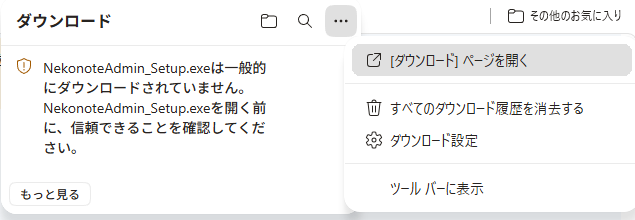
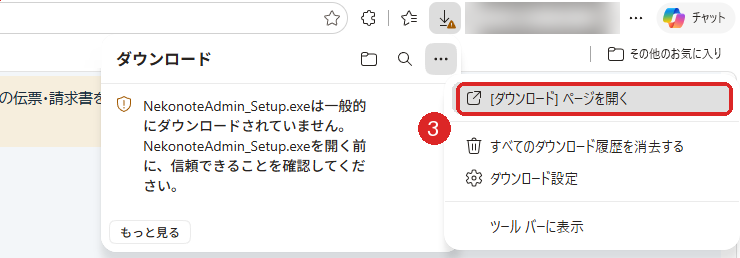
ダウンロードの警告の写真に、押すところの印を付けた

diff --git a/index.html b/index.html
@@ -92,10 +92,10 @@
           <summary>「一般的にダウンロードされていません」と出たとき（写真つき）</summary>
           <p>使う人がまだ少ないアプリなので、Edge が念のため出しています。こわれたファイルやウイルスではありません。</p>
           <ol>
-            <li>Edge の右上のダウンロードのマーク（↓）を押すと、この窓が出ます。「ダウンロード」の右の <b>…</b>（その他のオプション）を押します。<br><img src="img/dl1.png" alt="ダウンロードの窓。右上に「…」のボタン" width="465" height="220"></li>
-            <li><b>[ダウンロード] ページを開く</b> を押します。<br><img src="img/dl2.png" alt="「…」のメニュー。いちばん上に「[ダウンロード] ページを開く」" width="635" height="220"></li>
-            <li>開いたページの「すべてのファイル」に出ている項目の <b>保存</b> を押します。保存できたら「ファイルを開く」を押します。<br><img src="img/dl3.png" alt="ダウンロード ページ。警告の項目に「保存」と「削除」のボタン" width="885" height="235"></li>
-            <li>青い画面で「Windows によって PC が保護されました」と出たら、<b>詳細情報</b> を押してから <b>実行</b> を押します。</li>
+            <li><b>①</b> Edge の右上のダウンロードのマーク（↓）を押すと、警告の窓が出ます。<b>②</b>「ダウンロード」の右の <b>…</b>（その他のオプション）を押します。<br><img src="img/dl1.png" alt="①右上のダウンロードのマーク、②ダウンロードの窓の「…」のボタンに赤い丸" width="740" height="258"></li>
+            <li><b>③</b> <b>[ダウンロード] ページを開く</b> を押します。<br><img src="img/dl2.png" alt="③「…」のメニューのいちばん上の「[ダウンロード] ページを開く」に赤い枠" width="740" height="258"></li>
+            <li><b>④</b> 開いたページの「すべてのファイル」に出ている項目の <b>保存</b> を押します。保存できたら「ファイルを開く」を押します。<br><img src="img/dl3.png" alt="④ダウンロード ページの警告の項目の「保存」のボタンに赤い丸" width="885" height="235"></li>
+            <li>青い画面で「Windows によって PC が保護されました」と出たら、<b>詳細情報</b> を押してから <b>実行</b> を押します。インストールの画面が出たら「次へ → インストール → 完了」です。</li>
           </ol>
           <p class="note">警告の窓の「詳細情報」や「このファイルは安全であることを報告する」を押しても、ダウンロードはできません。</p>
         </details></li>
